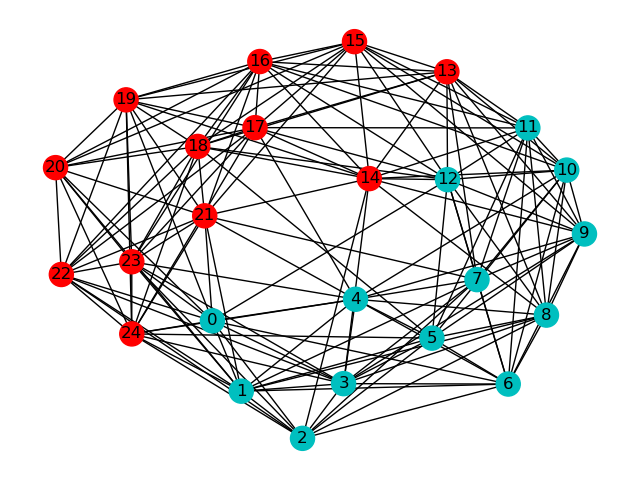
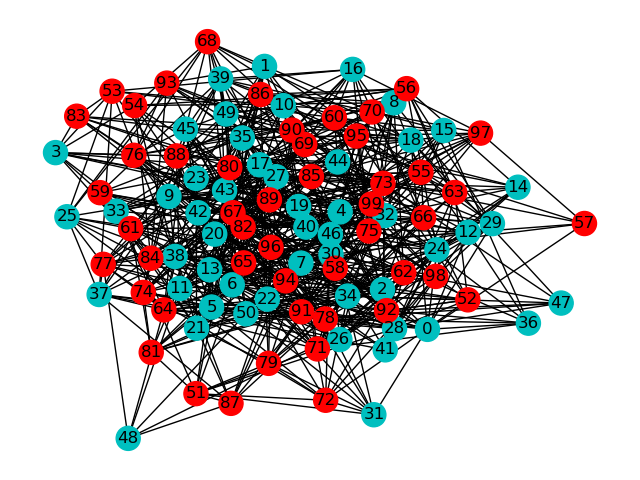
Looking good

diff --git a/solve_some_graphs.py b/solve_some_graphs.py
@@ -6,12 +6,10 @@ from partition_functions import *
 current_directory = os.getcwd()
 
 
-N = 25
-A = WS_adjacency_matrix(N, 0.5, 0.1)
+N = 100
+# A = WS_adjacency_matrix(N, 0.2, 0.2)
 # A = trivial_graphs[3]
-
-Q = get_Q(A)
-print(Q)
+A = ER_adjacency_matrix(N, 0.15)
 
 modularity_x, laypunov_M_x, laypunov_Q_x, QUBO_x = get_ideal_partitions(A, alpha=1, gamma=1)
 
